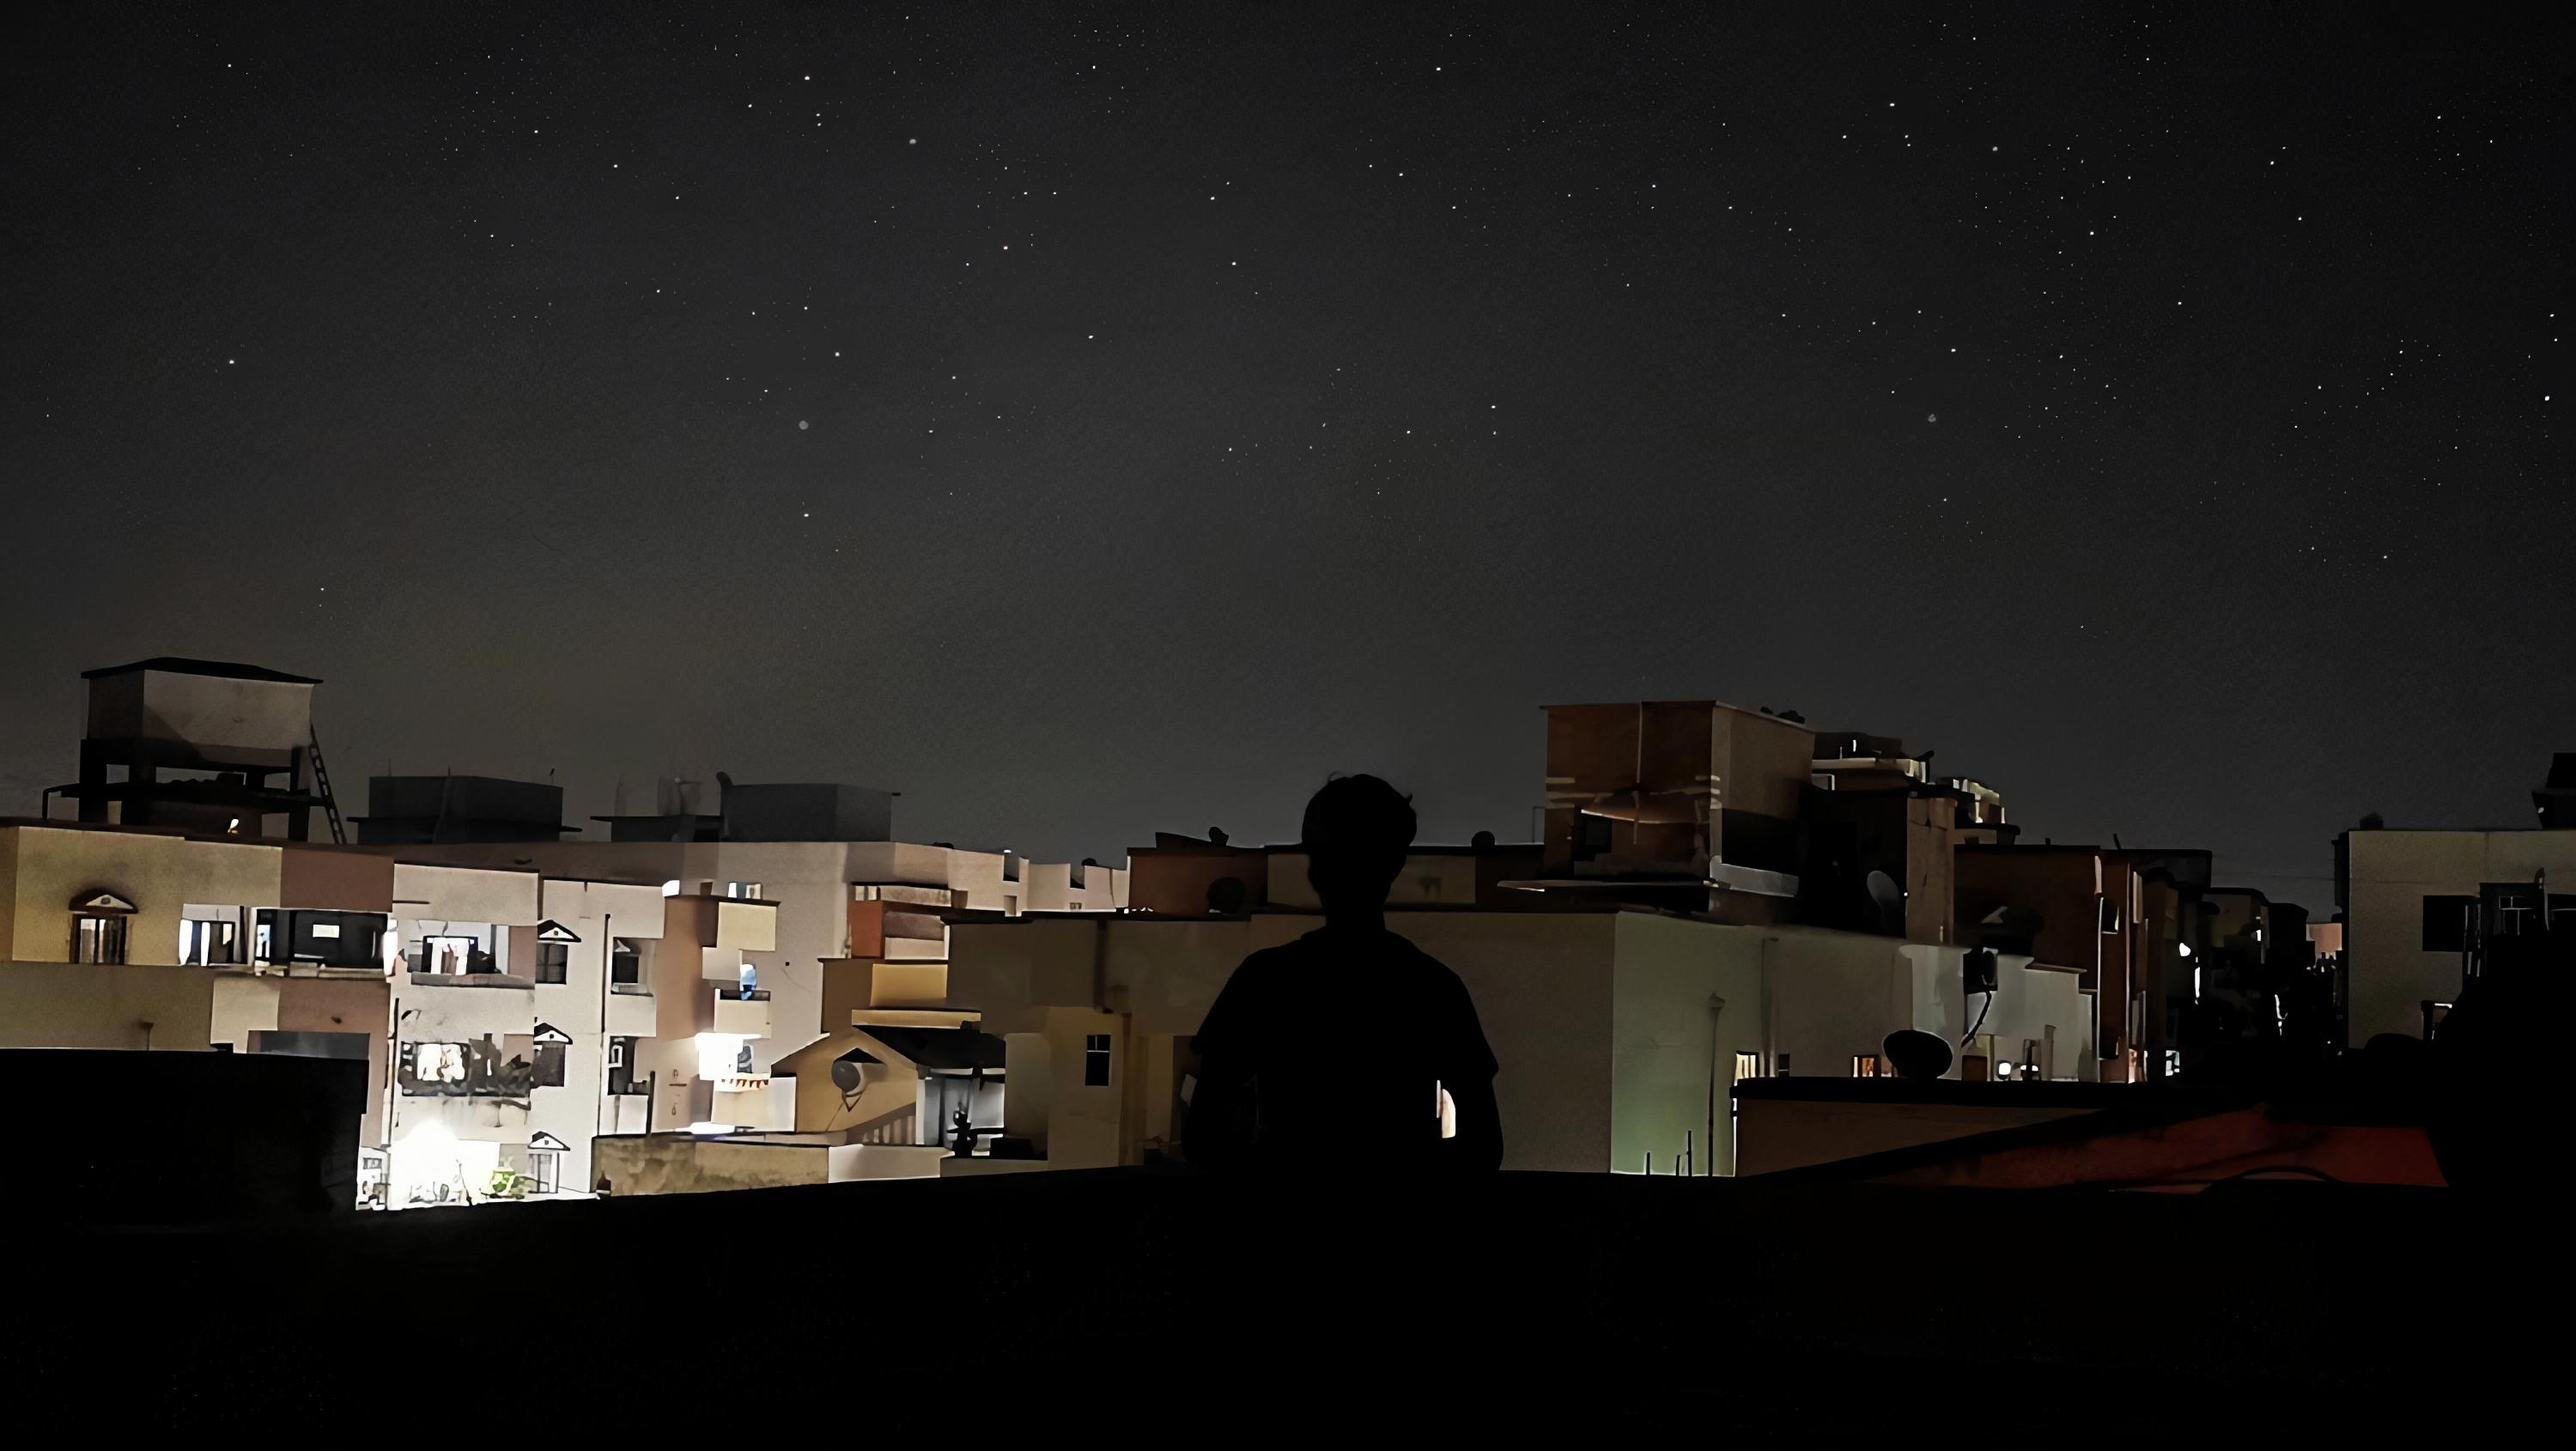
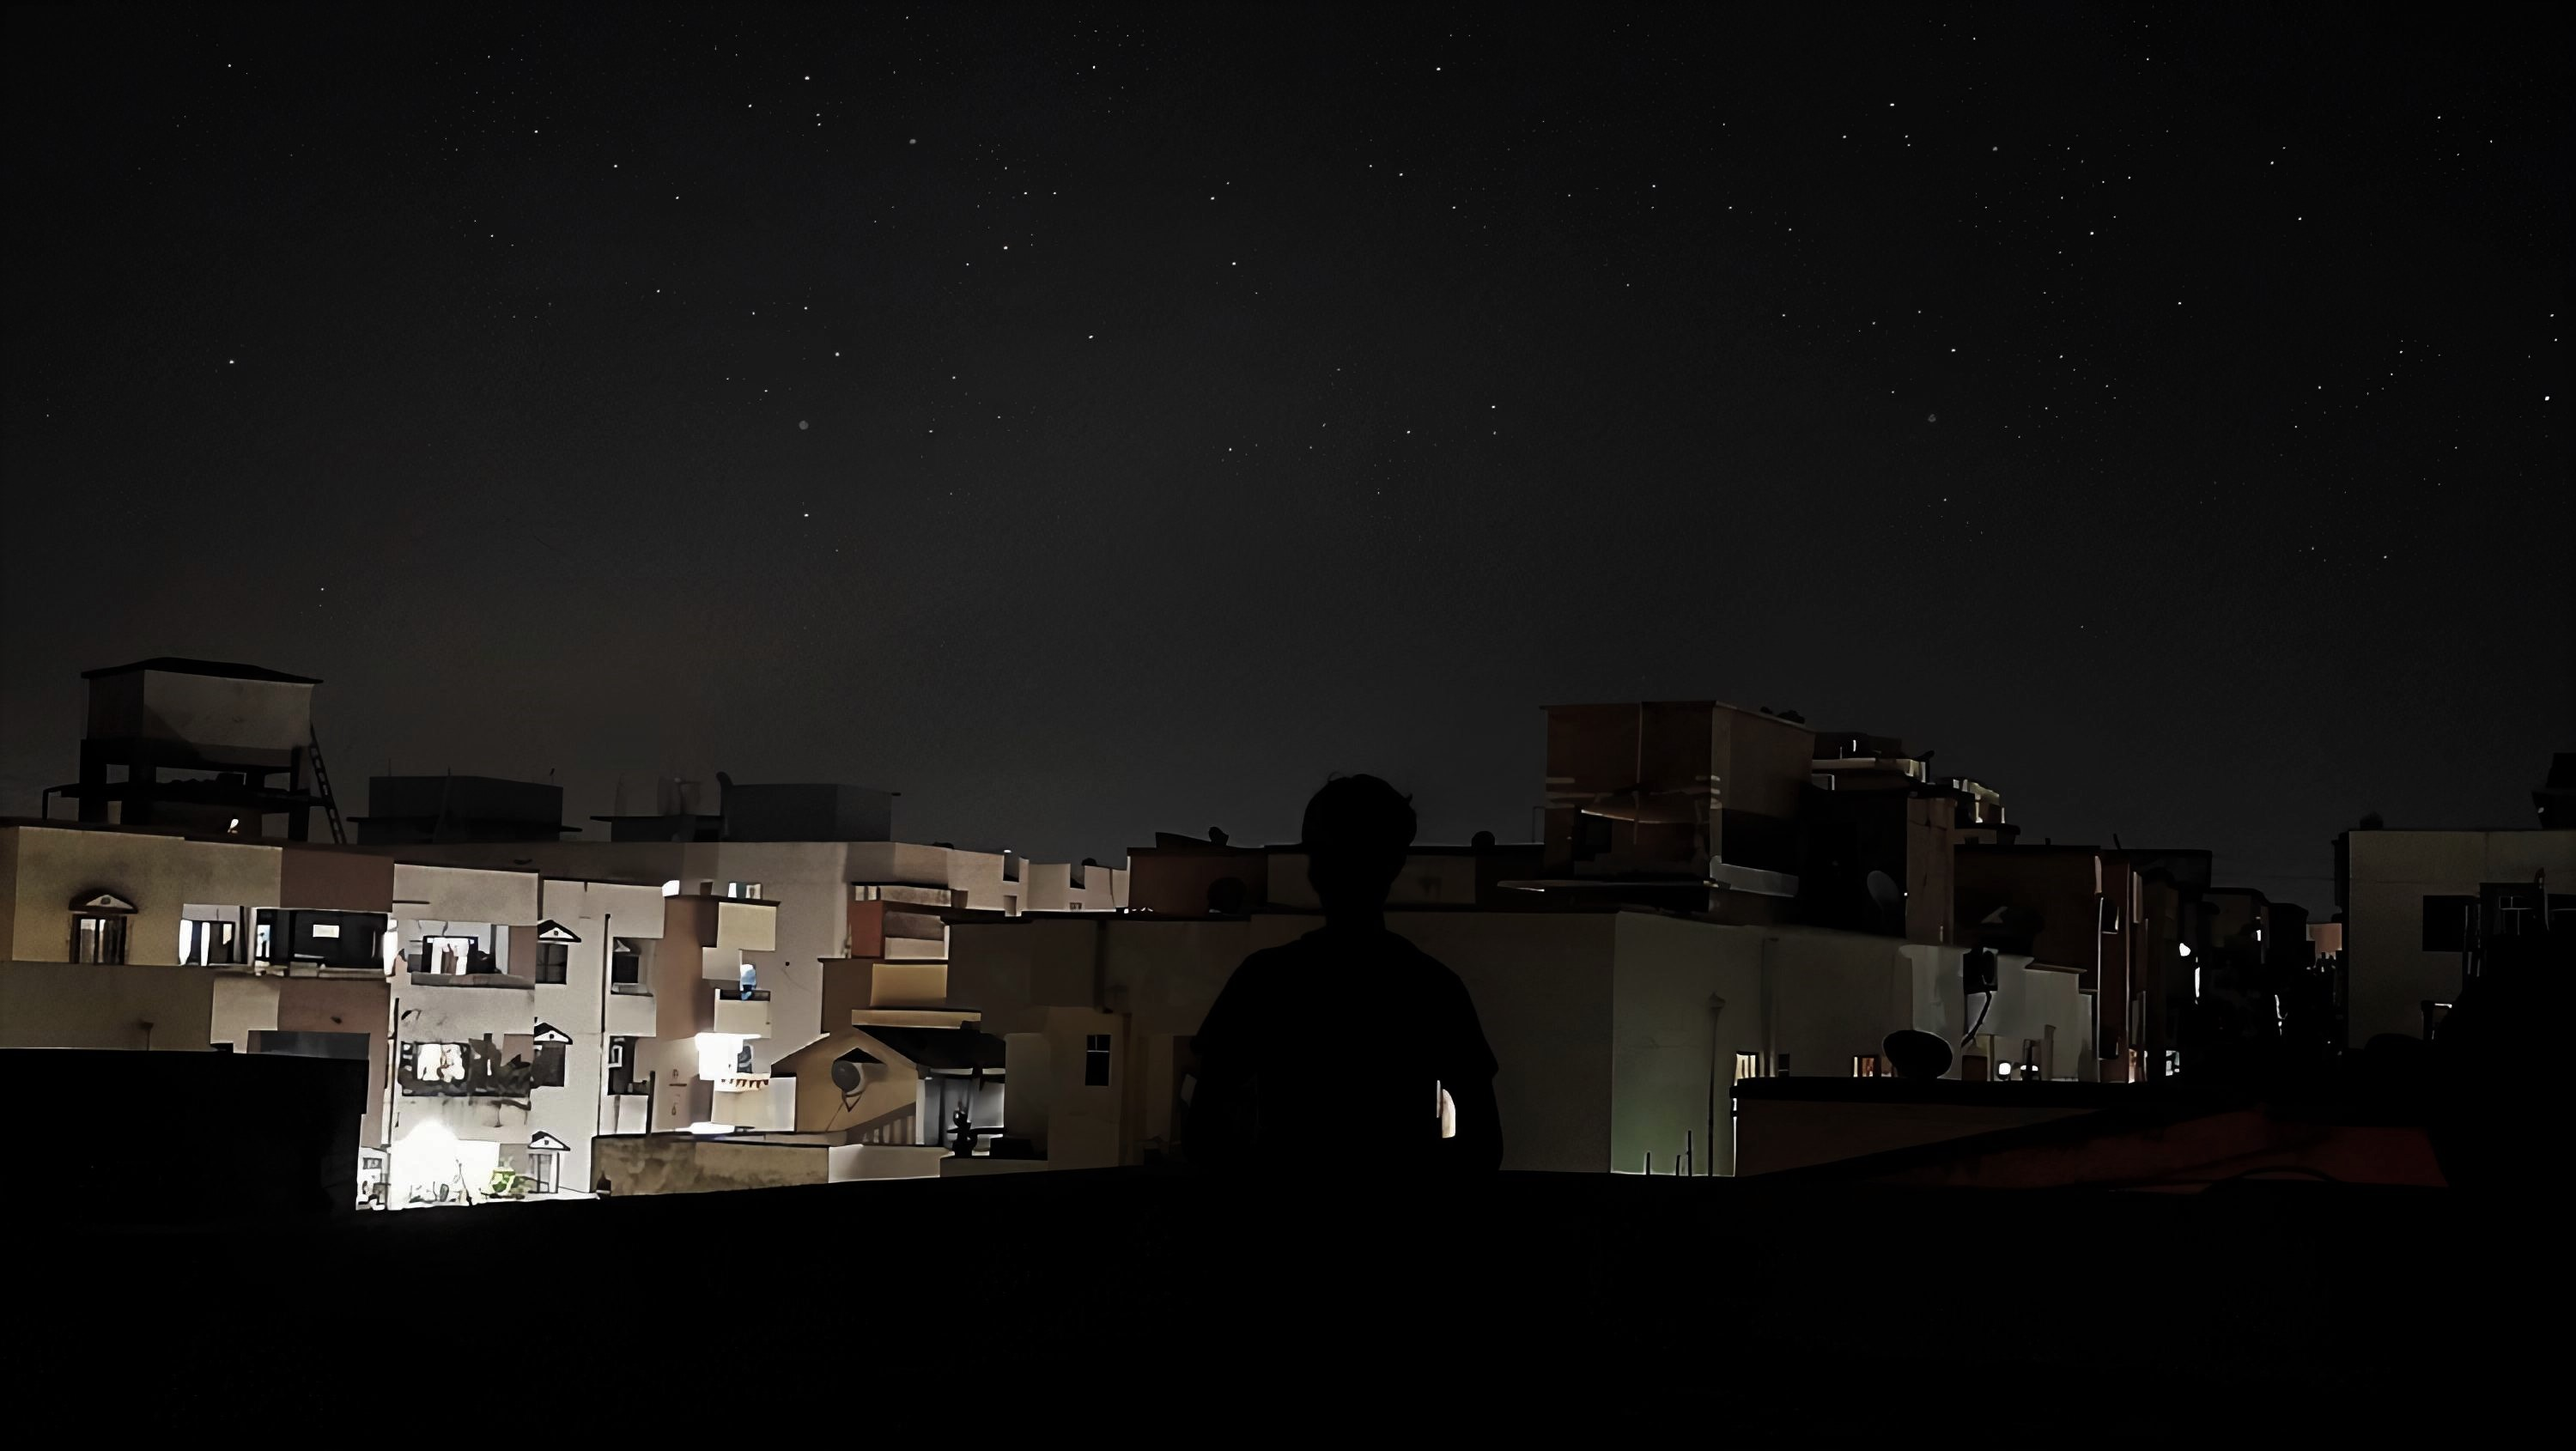
online domain test commit

diff --git a/templates/index.html b/templates/index.html
@@ -3,22 +3,34 @@
 <head>
     <meta charset="UTF-8">
     <meta name="viewport" content="width=device-width, initial-scale=1.0">
+    <script src="https://ajax.googleapis.com/ajax/libs/jquery/3.5.1/jquery.min.js"></script>
     <title>Rohan Verma</title>
 </head>
 <style>
-    body{
+    html{
+        width: 100vw;
+        height: 100vh;
         padding: 0%;
         border: none;
         margin: 0%;
     }
-    .wrapper{
-        position: relative;
+    body{
+        padding: 0%;
+        border: none;
+        margin: 0%;
         width: 100vw;
-        height: 100vh;
+        background-color: black;
+    }
+    .wrapper{
+        position: absolute;
+        width: 100vw;
+        height: 100vh;        
+        padding: 0%;
+        border: none;
+        margin: 0%;
         background-image: url("/static/assets/images/background.jpg");
         background-repeat: no-repeat;
         background-size: cover;
-        filter: brightness(0.5);
     }
     .particle{
         position: absolute;
@@ -33,13 +45,34 @@
         width: auto;
         height: 100%;
     }
+    .head-h1{
+        text-align: center;
+        position: relative;
+        color: white;
+        margin: 0;
+        padding-top: 20px;
+        padding-bottom: 20px;
+        font-size: 50px;
+        font-family: "Yanone Kaffeesatz", sans-serif;
+        border: none;
+    }
+    .head{
+        width: 100vw;
+        position: relative;
+        background-color: rgba(0,0,0,0.4);
+        margin: 0;
+        padding: 0;
+        border: none;
+    }
 </style>
 <body>
     <div class="particle" id="particleid">
         <img class="gifimage" id="gifimageid" src="">
     </div>
     <div class="wrapper">
-
+        <div class="head">
+            <h1 class="head-h1">Welcome to My World</h1>
+        </div>
     </div>
 </body>
 <script>
@@ -80,5 +113,15 @@
                 document.getElementById("gifimageid").setAttribute("src",gifadd.running_right);
         }
     },10);
+    $(document).ready(function(){
+        $(".head").fadeOut(1);
+        $(".wrapper").fadeOut(1);
+    });
+    setTimeout(function(){
+        $(".wrapper").fadeIn();
+    },200);
+    setTimeout(function(){
+        $(".head").fadeIn(300);
+    },500);
 </script>
 </html>
